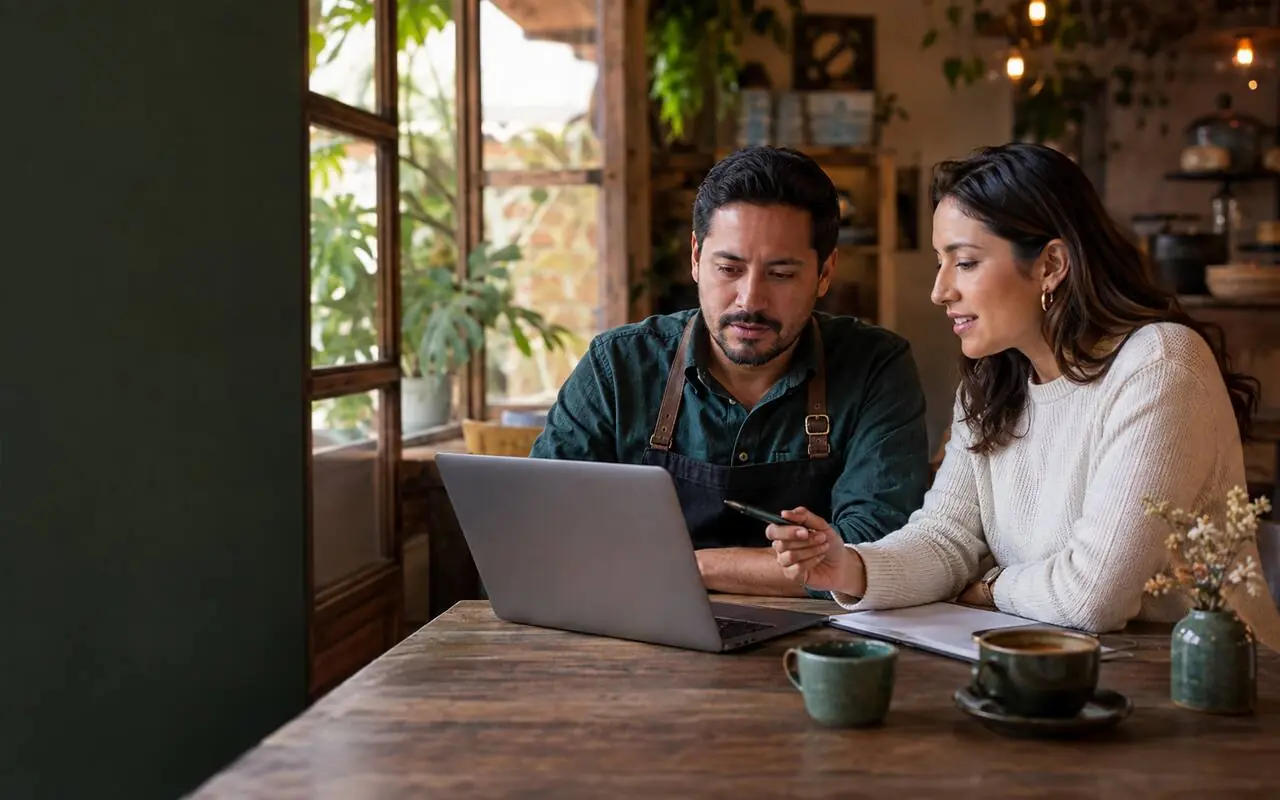
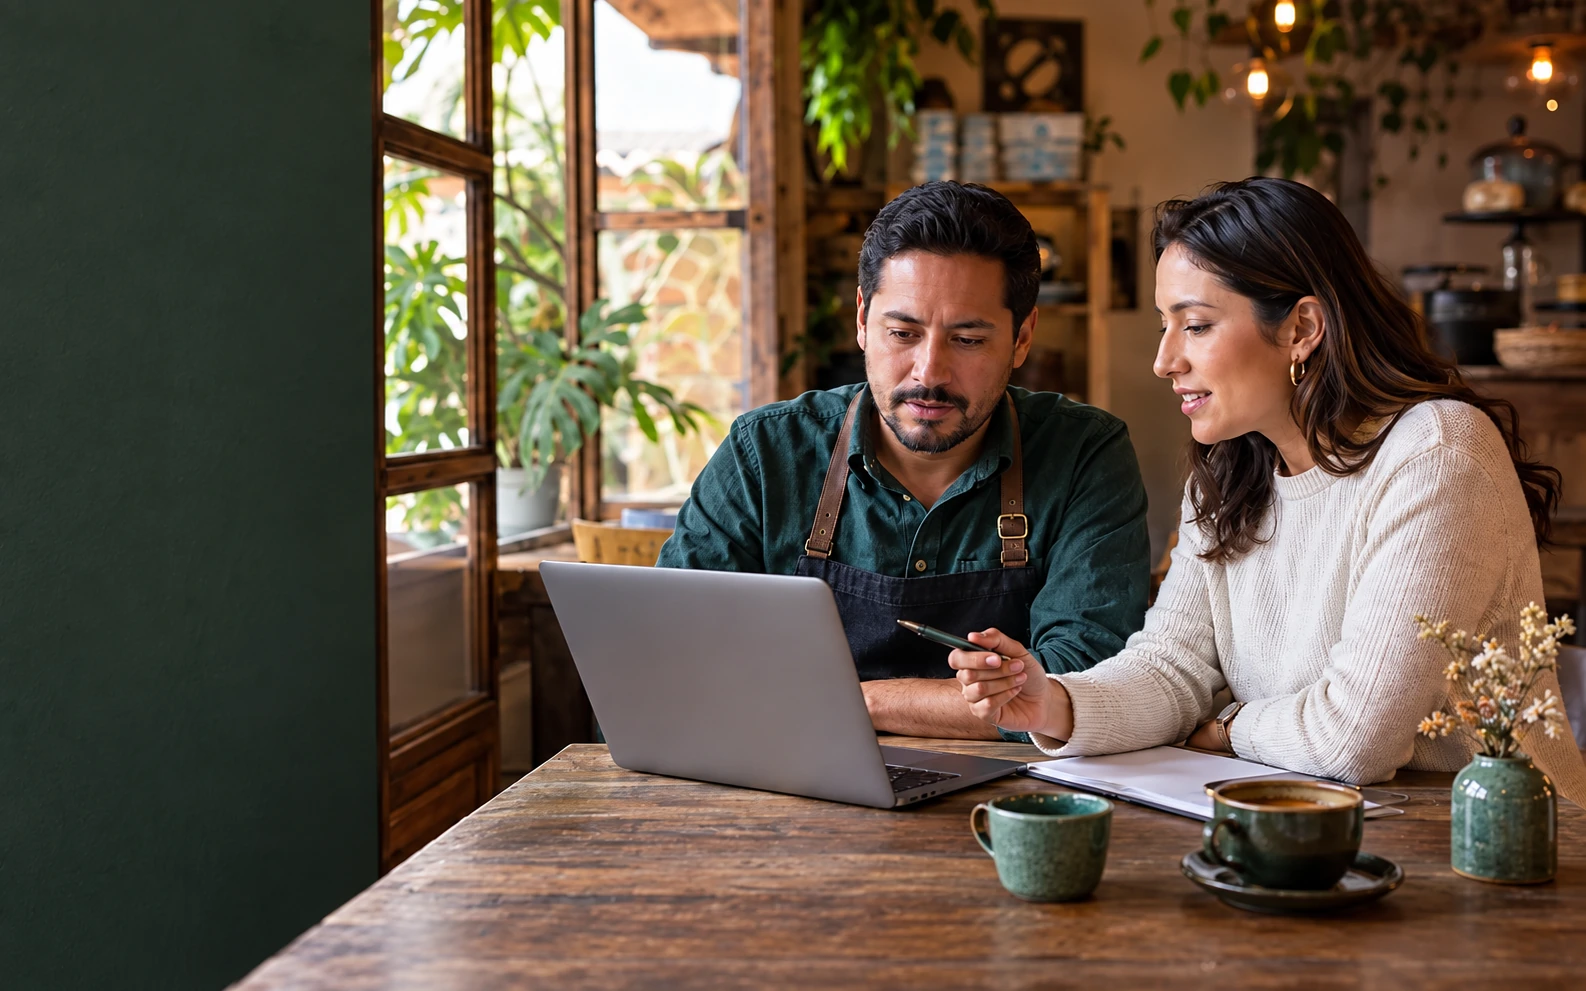
Improve Lumix photography and hero framing

diff --git a/people.css b/people.css
@@ -1,5 +1,5 @@
 /* Art direction: a quiet opening becomes an immersive photographic story. */
-.cinema-wrap{position:relative}.cinema-hero{position:relative;isolation:isolate;min-height:760px;overflow:hidden;background:#f5f3eb}.cinema-photo{position:absolute;inset:0;margin:0;clip-path:inset(18% 4% 9% 50% round 150px 5px 5px 5px);z-index:0}.cinema-photo img{width:100%;height:100%;object-fit:cover;object-position:58% center;filter:saturate(.85)}.cinema-photo:after{content:'';position:absolute;inset:0;background:linear-gradient(90deg,#162d2238,transparent 70%)}.cinema-intro{position:relative;z-index:2;padding-top:55px;padding-bottom:55px}.cinema-kicker{font-size:12px;letter-spacing:.02em;color:#59674f;margin-bottom:35px}.cinema-intro h1{font-size:clamp(64px,7.5vw,110px);line-height:1;letter-spacing:-.065em;max-width:850px}.cinema-intro h1 em{color:#657450}.cinema-copy{margin-top:40px;max-width:340px}.cinema-copy>p:first-child{font-size:19px;line-height:1.6;color:#304a38}.cinema-copy>p+p{font-size:13px;line-height:1.85;margin-top:18px;max-width:34ch}.cinema-actions{display:flex;align-items:center;gap:25px;margin-top:28px;white-space:nowrap}.cinema-actions .btn{border-radius:3px;padding:17px 20px;font-size:12px}.cinema-actions .text-link{font-size:12px}.cinema-discover{display:block;font-size:10px;margin-top:38px;color:#57634d;width:max-content}.cinema-discover span{margin-left:20px}.cinema-reveal{position:absolute;z-index:1;left:8%;bottom:15%;color:#fff8ec;opacity:0;pointer-events:none}.cinema-reveal>span{font-size:12px;letter-spacing:.03em}.cinema-reveal p{color:inherit;font-size:clamp(75px,11vw,170px);line-height:.93;letter-spacing:-.065em;margin-top:23px;text-shadow:0 4px 35px #142a2233}.cinema-credit{position:absolute;bottom:23px;right:4%;font-size:8px;color:#5c6858}.photo-journey{background:#203d33;color:#f4f0e4}.journey-track{display:grid}.journey-panel{position:relative;min-height:650px;overflow:hidden}.journey-intro{display:grid;grid-template-columns:1fr 1fr;align-items:center;padding:70px 7%;gap:60px}.journey-intro .eyebrow{color:#bec9ad;font-size:10px;letter-spacing:.07em}.journey-intro h2{font-size:clamp(45px,5.3vw,78px);line-height:1.08}.journey-intro h2 em{color:#cbd4b4}.journey-intro p:last-child{font-size:15px;line-height:1.9;color:#d0d5c7;margin-top:34px}.journey-intro img{height:480px;width:100%;border-radius:190px 190px 3px 3px;object-position:65% center}.journey-photo img{position:absolute;inset:0;width:100%;height:100%;object-fit:cover}.journey-photo:after{content:'';position:absolute;inset:0;background:linear-gradient(0deg,#11261cd9,transparent 85%)}.journey-photo>div{position:absolute;z-index:1;bottom:10%;left:8%;right:8%}.journey-photo p{color:#f4f0e4;font-size:13px;margin-bottom:20px}.journey-photo h2{font-size:clamp(52px,7vw,110px);line-height:1.02}.studio-visual img{object-position:65% center;filter:saturate(.88)}
+.cinema-wrap{position:relative}.cinema-hero{position:relative;isolation:isolate;min-height:760px;overflow:hidden;background:#f5f3eb}.cinema-photo{position:absolute;inset:0;margin:0;clip-path:inset(7% 4% 7% 48% round 125px 5px 5px 5px);z-index:0}.cinema-photo img{width:100%;height:100%;object-fit:cover;object-position:58% top;filter:saturate(.85)}.cinema-photo:after{content:'';position:absolute;inset:0;background:linear-gradient(90deg,#162d2238,transparent 70%)}.cinema-intro{position:relative;z-index:2;padding-top:55px;padding-bottom:55px}.cinema-kicker{font-size:12px;letter-spacing:.02em;color:#59674f;margin-bottom:35px}.cinema-intro h1{font-size:clamp(64px,7.5vw,110px);line-height:1;letter-spacing:-.065em;max-width:850px}.cinema-intro h1 em{color:#657450}.cinema-copy{margin-top:40px;max-width:340px}.cinema-copy>p:first-child{font-size:19px;line-height:1.6;color:#304a38}.cinema-copy>p+p{font-size:13px;line-height:1.85;margin-top:18px;max-width:34ch}.cinema-actions{display:flex;align-items:center;gap:25px;margin-top:28px;white-space:nowrap}.cinema-actions .btn{border-radius:3px;padding:17px 20px;font-size:12px}.cinema-actions .text-link{font-size:12px}.cinema-discover{display:block;font-size:10px;margin-top:38px;color:#57634d;width:max-content}.cinema-discover span{margin-left:20px}.cinema-reveal{position:absolute;z-index:1;left:8%;bottom:15%;color:#fff8ec;opacity:0;pointer-events:none}.cinema-reveal>span{font-size:12px;letter-spacing:.03em}.cinema-reveal p{color:inherit;font-size:clamp(75px,11vw,170px);line-height:.93;letter-spacing:-.065em;margin-top:23px;text-shadow:0 4px 35px #142a2233}.cinema-credit{position:absolute;bottom:23px;right:4%;font-size:8px;color:#5c6858}.photo-journey{background:#203d33;color:#f4f0e4}.journey-track{display:grid}.journey-panel{position:relative;min-height:650px;overflow:hidden}.journey-intro{display:grid;grid-template-columns:1fr 1fr;align-items:center;padding:70px 7%;gap:60px}.journey-intro .eyebrow{color:#bec9ad;font-size:10px;letter-spacing:.07em}.journey-intro h2{font-size:clamp(45px,5.3vw,78px);line-height:1.08}.journey-intro h2 em{color:#cbd4b4}.journey-intro p:last-child{font-size:15px;line-height:1.9;color:#d0d5c7;margin-top:34px}.journey-intro img{height:480px;width:100%;border-radius:190px 190px 3px 3px;object-position:65% center}.journey-photo img{position:absolute;inset:0;width:100%;height:100%;object-fit:cover}.journey-photo:after{content:'';position:absolute;inset:0;background:linear-gradient(0deg,#11261cd9,transparent 85%)}.journey-photo>div{position:absolute;z-index:1;bottom:10%;left:8%;right:8%}.journey-photo p{color:#f4f0e4;font-size:13px;margin-bottom:20px}.journey-photo h2{font-size:clamp(52px,7vw,110px);line-height:1.02}.studio-visual img{object-position:65% center;filter:saturate(.88)}
 @media(min-width:761px) and (min-height:650px){html.cinematic .cinema-wrap{height:185svh}html.cinematic .cinema-hero{position:sticky;top:83px;height:calc(100svh - 83px);min-height:0}html.cinematic .cinema-intro{padding-top:4svh}html.cinematic .cinema-copy{margin-top:4svh}html.cinematic .cinema-kicker{margin-bottom:3svh}html.cinematic .cinema-intro h1{font-size:min(7.5vw,12svh)}html.cinematic .cinema-discover{margin-top:3svh}html.cinematic .photo-journey{height:280svh}html.cinematic .journey-viewport{position:sticky;top:83px;height:calc(100svh - 83px);overflow:hidden}html.cinematic .journey-track{display:flex;height:100%}html.cinematic .journey-panel{flex:0 0 100%;height:100%;min-height:0}html.cinematic .journey-intro img{height:65svh;max-height:560px}html.cinematic .journey-intro{padding-block:45px}}
 @media(max-width:1000px){.cinema-hero{min-height:720px}.cinema-intro h1{font-size:8vw}.cinema-copy{max-width:300px}.cinema-copy>p:first-child{font-size:17px}.cinema-actions{gap:17px}.cinema-actions .btn{font-size:11px;padding-inline:15px}.journey-panel{min-height:560px}.journey-intro{gap:35px;padding:60px 6%}.journey-intro img{height:420px}.journey-intro h2{font-size:46px}}
 @media(max-width:760px){.cinema-hero{min-height:0;padding-bottom:0}.cinema-intro{padding-top:30px;padding-bottom:35px}.cinema-kicker{font-size:10px;margin-bottom:25px}.cinema-intro h1{font-size:clamp(43px,10vw,75px);line-height:1.02}.cinema-copy{margin-top:25px;max-width:100%}.cinema-copy>p:first-child{font-size:17px}.cinema-copy>p+p{font-size:12px;max-width:40ch}.cinema-actions{gap:21px;margin-top:24px}.cinema-actions .btn{font-size:11px;padding:16px}.cinema-discover{margin-top:25px}.cinema-photo{position:relative;inset:auto;clip-path:none;height:420px;margin:0 20px 24px;border-radius:120px 3px 3px 3px;overflow:hidden}.cinema-hero{display:flex;flex-direction:column}.cinema-intro{order:-1}.cinema-photo img{object-position:58% center}.cinema-credit{bottom:9px;right:22px;font-size:7px}.cinema-reveal{display:none}.journey-intro{display:flex;flex-direction:column;align-items:stretch;padding:55px 25px;gap:35px}.journey-intro h2{font-size:43px}.journey-intro p:last-child{font-size:13px;margin-top:25px}.journey-intro img{height:340px;border-radius:140px 140px 3px 3px}.journey-photo{min-height:550px}.journey-photo h2{font-size:46px}.journey-photo p{font-size:11px;max-width:28ch}.journey-photo>div{left:25px;bottom:45px}}
@@ -7,7 +7,7 @@
 .plan-label,.plan-emblem,.plan-focus{display:none}.plan-option{border-radius:12px;padding:38px 30px;box-shadow:none}.plan-option h2{font:italic 42px Georgia,serif;margin-bottom:25px}.plan-option h3{font-size:19px;letter-spacing:-.025em;min-height:65px}.plan-option .plan-audience{font-size:12px;min-height:86px;margin-bottom:26px}.plan-inclusions{padding-top:25px}.plan-inclusions ul{margin-bottom:30px}.plan-bottom .btn{border-radius:4px;min-height:50px;justify-content:center}.plan-grow{background:#263f34}.plan-grow .plan-bottom .btn{background:#f3eddb;border-color:#f3eddb}.plan-scale{background:#e6e5db}.plan-heading>h2{font-size:clamp(40px,4.5vw,65px)}.plan-selection{padding-block:100px}.plan-guidance{display:none}.card-link{width:max-content;border-bottom:1px solid #83917c;padding-bottom:9px}.card-link span:empty{display:none}.steps>article>span,.row-number,.step-number,.flow-node small{display:none}.steps article{border-top:none!important}.plan-bottom p{margin-bottom:18px}.nav-cta{padding:10px 17px;border:1px solid #bcc5b5;border-radius:3px}.plan-option:hover{box-shadow:none!important}.motion-toggle{bottom:20px}.ai-entry{display:none}
 @media(max-width:760px){.plan-selection{padding-block:60px}.plan-option{padding:30px}.plan-option .plan-audience{min-height:0}.plan-option h3{min-height:0}.plan-heading>h2{font-size:42px}.nav-cta{padding:8px 11px}.cinema-actions{gap:14px}.cinema-actions .text-link{font-size:11px}}
 .demo-explanation li:before{content:none}.cinema-intro:focus-within{opacity:1!important;pointer-events:auto!important}html.cinematic .journey-viewport{overflow:clip}.cinema-credit{z-index:3;padding:3px 6px;background:#f5f3ebd9;border-radius:2px}
-@media(prefers-reduced-motion:reduce){html{scroll-behavior:auto}.cinema-photo,.cinema-intro,.cinema-reveal,.journey-track{transform:none!important}.cinema-intro{opacity:1!important}.cinema-photo{clip-path:inset(18% 4% 9% 50% round 150px 5px 5px 5px)!important}.cinema-reveal{display:none}}
+@media(prefers-reduced-motion:reduce){html{scroll-behavior:auto}.cinema-photo,.cinema-intro,.cinema-reveal,.journey-track{transform:none!important}.cinema-intro{opacity:1!important}.cinema-photo{clip-path:inset(7% 4% 7% 48% round 125px 5px 5px 5px)!important}.cinema-reveal{display:none}}
 @media(max-width:760px) and (prefers-reduced-motion:reduce){.cinema-photo{clip-path:none!important}}
 /* A personal letter, written by scroll position rather than by a timer. */
 .note-scroll{position:relative;background:#f0eee5;padding:90px 0}.personal-note{display:grid;grid-template-columns:.7fr 1.3fr;gap:90px;padding-block:25px}.note-heading .eyebrow{font-size:10px;text-transform:none;letter-spacing:.03em;color:#66715b;margin-bottom:25px}.note-heading h2{font-size:clamp(32px,3.6vw,50px);line-height:1.12}.note-rule{display:block;width:55px;height:1px;background:#9aa48e;margin-top:35px}.typed-note{position:relative;margin:0;font:32px/1.5 Georgia,'Times New Roman',serif;letter-spacing:-.025em;color:#294333;text-wrap:pretty}.note-readable{position:absolute;width:1px;height:1px;padding:0;margin:-1px;overflow:hidden;clip-path:inset(50%);white-space:nowrap}.note-visual{display:block}.type-word{display:inline-block;white-space:nowrap}.type-char{position:relative}.typing-enabled .type-char:not(.is-typed){color:transparent}.typing-enabled .type-char.is-caret:after{content:'';position:absolute;left:100%;top:.1em;height:1em;width:1px;background:#647553;pointer-events:none}.note-signature{margin-top:38px;display:flex;flex-direction:column;gap:5px}.note-signature strong{font:italic 26px Georgia,serif;font-weight:400}.note-signature>span{font-size:10px;color:#64725b;letter-spacing:.03em}.note-body>.text-link{margin-top:25px;font-size:12px}.note-body{min-width:0}
@@ -35,6 +35,12 @@ html.typing-active .note-scroll{height:auto;padding:80px 0}html.typing-active .p
 @media(prefers-reduced-motion:reduce){.journey-photo>div{transform:none!important}}
 .note-read-all{font-family:inherit;font-size:12px}
 @media(min-width:761px) and (min-height:650px){html.cinematic .journey-panel:last-child{flex-basis:100%}.journey-guide{right:145px;left:7%}}
+
+/* High-contrast contact action that stays clear of the viewport edge. */
+.wa-float{right:28px!important;bottom:max(26px,env(safe-area-inset-bottom))!important;min-height:52px;padding:9px 19px 9px 10px!important;gap:11px!important;border:1px solid #153c30!important;border-radius:999px!important;background:#153c30!important;color:#fffdf5!important;box-shadow:0 12px 30px #102b2350!important;font-size:12px!important;font-weight:600;letter-spacing:.01em;transition:transform 180ms ease,box-shadow 180ms ease!important}
+.wa-float:before{content:'↗';display:grid;place-items:center;width:32px;height:32px;border-radius:50%;background:#d9f58c;color:#153c30;font-size:16px;line-height:1}
+.wa-float:hover{transform:translateY(-3px);box-shadow:0 17px 36px #102b2366!important}
+@media(max-width:760px){.wa-float{right:14px!important;bottom:max(14px,env(safe-area-inset-bottom))!important;min-height:48px;padding:8px 15px 8px 8px!important;font-size:11px!important}.wa-float:before{width:30px;height:30px}}
 /* Evidence, scope, and practical guidance. */
 .concept-story{grid-column:1/-1;border-top:1px solid var(--line);border-bottom:1px solid var(--line);margin-top:0;padding:20px 0}.concept-story summary,.scope-answers summary{cursor:pointer;font-size:15px;line-height:1.5;padding:9px 0}.concept-story summary::marker,.scope-answers summary::marker{color:#74825f}.concept-story-grid{display:grid;grid-template-columns:1fr 1fr;gap:65px;padding:30px 0 15px}.concept-story-grid span{display:block;font-size:11px;color:#687657;margin-bottom:15px}.concept-story-grid h3{font:32px/1.15 Georgia,serif;max-width:25ch;margin-bottom:20px}.concept-story-grid p{font-size:14px;line-height:1.8;margin-bottom:24px}.concept-disclosure{font-size:11px!important;max-width:70ch}.scope-section{display:grid;grid-template-columns:1fr 1.3fr;gap:80px;padding-block:30px 110px}.scope-section h2,.guide-teaser h2{font-size:clamp(34px,3.5vw,49px)}.scope-section>div>p{margin-top:25px;font-size:14px;line-height:1.8;max-width:35ch}.scope-answers details{border-bottom:1px solid var(--line);padding:13px 0}.scope-answers details:first-child{border-top:1px solid var(--line)}.scope-answers p{font-size:14px;line-height:1.85;margin:15px 0 20px}.guide-teaser{display:grid;grid-template-columns:1.4fr 1fr;gap:70px;border-top:1px solid var(--line);padding-block:70px;margin-bottom:50px;align-items:center}.guide-teaser p{font-size:14px;line-height:1.85}.guide-teaser .text-link{margin-top:22px}.founder-intro{display:grid;grid-template-columns:.65fr 1fr;gap:70px;align-items:center;margin-block:70px 100px;padding:45px;background:#e8e9de}.founder-monogram{aspect-ratio:1.2;background:#244638;color:#e9e7d4;font:italic clamp(90px,12vw,165px) Georgia,serif;display:flex;flex-direction:column;align-items:center;justify-content:center}.founder-monogram span{font:11px Arial,sans-serif;letter-spacing:.13em;margin-top:20px}.founder-intro h2{font-size:45px}.founder-intro p{font-size:15px;line-height:1.8;max-width:46ch;margin-block:20px}.founder-intro .founder-role{font-size:12px;color:#647056}.practical-guide{padding-block:75px 110px}.practical-guide header{max-width:850px}.practical-guide h1{font-size:clamp(45px,6vw,82px)}.practical-guide header>p{max-width:65ch;font-size:17px;line-height:1.8;margin-top:26px}.practical-guide .guide-byline{font-size:11px;color:#67735f;margin-top:25px}.guide-layout{display:grid;grid-template-columns:1fr 2.2fr;gap:85px;margin-top:65px}.guide-layout nav{display:flex;flex-direction:column;gap:18px;align-self:start;position:sticky;top:120px;font-size:13px}.guide-layout nav a{padding:10px 0;border-bottom:1px solid var(--line)}.guide-copy section{scroll-margin-top:120px;margin-bottom:60px}.guide-copy h2{font:36px/1.2 Georgia,serif;margin-bottom:25px}.guide-copy p,.guide-copy li{font-size:16px;line-height:1.85;margin-bottom:20px}.guide-copy ul{padding-left:20px}.guide-copy p a{text-decoration:underline;text-underline-offset:4px}.guide-invitation{padding:35px;background:#e7eadb}.guide-invitation .btn{font-size:13px}
 @media(max-width:760px){.concept-story-grid,.scope-section,.guide-teaser,.founder-intro,.guide-layout{grid-template-columns:1fr;gap:30px}.concept-story-grid{gap:10px}.concept-story summary{font-size:13px}.scope-section{padding-bottom:60px}.scope-answers summary{font-size:14px}.guide-teaser{padding-block:45px;margin-bottom:20px}.founder-intro{padding:25px;margin-block:45px}.founder-monogram{aspect-ratio:2;font-size:90px}.founder-intro h2{font-size:35px}.practical-guide{padding-block:45px}.guide-layout{margin-top:35px}.guide-layout nav{position:static;gap:5px}.guide-copy h2{font-size:30px}.guide-copy p,.guide-copy li{font-size:15px}.guide-invitation{padding:25px}}

diff --git a/app.js b/app.js
@@ -76,7 +76,7 @@ function paintCinema(){
   const rect=cinemaWrap.getBoundingClientRect();
   const progress=clamp((83-rect.top)/(rect.height-(innerHeight-83)));
   const open=progress*progress*(3-2*progress);
-  cinemaPhoto.style.clipPath='inset('+((1-open)*18)+'% '+((1-open)*4)+'% '+((1-open)*9)+'% '+((1-open)*50)+'% round '+((1-open)*150)+'px 0 0 0)';
+  cinemaPhoto.style.clipPath='inset('+((1-open)*7)+'% '+((1-open)*4)+'% '+((1-open)*7)+'% '+((1-open)*48)+'% round '+((1-open)*125)+'px 0 0 0)';
   cinemaIntro.style.transform='translate3d('+(-open*80)+'px,'+(-open*100)+'px,0)';
   cinemaIntro.style.opacity=String(1-clamp(open*2.3));
   cinemaIntro.style.pointerEvents=open>.45?'none':'';
